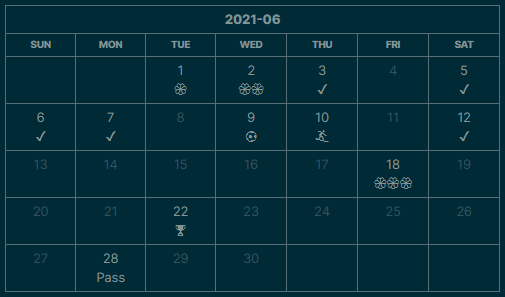
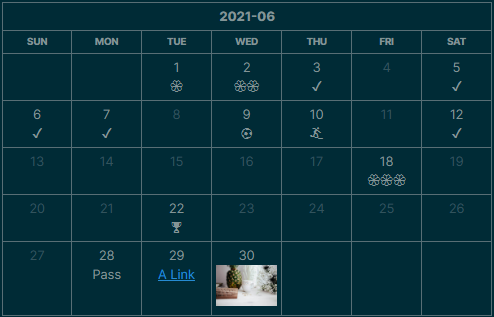
feature: enable html

diff --git a/main.ts b/main.ts
@@ -4,6 +4,7 @@ interface HabitTrackerPluginSettings {
   startOfWeek: string;
   monthFormat: string;
   displayHead: boolean;
+  enableHTML: boolean;
   Sunday: string;
   Monday: string;
   Tuesday: string;
@@ -17,6 +18,7 @@ const DEFAULT_SETTINGS: HabitTrackerPluginSettings = {
   startOfWeek: '0',
   monthFormat: 'YYYY-MM',
   displayHead: true,
+  enableHTML: false,
   Sunday: 'SUN',
   Monday: 'MON',
   Tuesday: 'TUE',
@@ -69,7 +71,6 @@ function renderTable (source: string, plugin: HabitTrackerPlugin) {
 
   const styles = ctx.tableWidth ? `width: ${ctx.tableWidth};` : '';
   const table = createEl('table', { cls: 'habitt', attr: { style: styles }})
-  console.log('table', table)
   table.appendChild(renderHead(ctx))
   table.appendChild(renderBody(ctx))
   return table
@@ -141,7 +142,6 @@ function renderHead (ctx: HabitTrackerContext): HTMLElement {
   for (let i = 0; i < 7; i++) {
     tr.createEl('th', { cls: `habitt-th habitt-th-${i}`, text: WEEK[(i + ctx.startOfWeek) % 7] });
   }
-  console.log('thead', thead)
   return thead;
 }
 
@@ -172,6 +172,7 @@ function renderBody (ctx: HabitTrackerContext): HTMLElement {
   }
   
   const tbody = createEl('tbody');
+  const { enableHTML } = ctx.settings
   for (let i = 0; i < weeks.length; i++) {
     const tr = tbody.createEl('tr');
     for (let j = 0; j < weeks[i].length; j++) {
@@ -182,11 +183,16 @@ function renderBody (ctx: HabitTrackerContext): HTMLElement {
       div.createDiv({ cls: 'habitt-date', text: `${d || ''}` });
       const dots = div.createDiv({ cls: 'habitt-dots' });
       if (hasOwn) {
-        dots.createDiv({ text: ctx.marks.get(d) || '✔' });
+        const input = ctx.marks.get(d) || '✔'
+        // treat as HTML
+        if (enableHTML) {
+          dots.innerHTML = `<div>${input}</div>`
+        } else {
+          dots.createDiv({ text: input });
+        }
       }
     }
   }
-  console.log('body', tbody)
   return tbody;
 }
 
@@ -233,6 +239,18 @@ class HabitTrackerSettingTab extends PluginSettingTab {
           .setValue(this.plugin.settings.displayHead)
           .onChange(async (value) => {
             this.plugin.settings.displayHead = value;
+            await this.plugin.saveSettings();
+          })
+      );
+
+    new Setting(containerEl)
+      .setName('Enable HTML')
+      .setDesc('Treat your input text as HTML. Be careful, it may cause DOM injection attacks')
+      .addToggle(
+        dropdown => dropdown
+          .setValue(this.plugin.settings.enableHTML)
+          .onChange(async (value) => {
+            this.plugin.settings.enableHTML = value;
             await this.plugin.saveSettings();
           })
       );

diff --git a/README.md b/README.md
@@ -4,6 +4,7 @@ This plguin for [Obsidian](https://obsidian.md/) creates a simple month view for
 
 ![](./screemshot.png)
 
+## How To
 To show the view above, just create a code block and type:
 
 ~~~
@@ -16,6 +17,32 @@ To show the view above, just create a code block and type:
 * `[month:YYYY-MM]`: Which month to display
 * `(date_num, tag)`: The day (`date_num`) you want to punch in, with a `tag` in it. If `tag` is missing, such as `(12)`, a default tag `✔` is given to that day.
 * `[width: css_width]`: Restrict the Month-view table to `css_width`, such as `[width: 50%]`, `[width: 500px]`
+
+### Rich Text
+Some people like to insert rich text (e.g. links or images). Since v1.0.4, Habit Tracker plugin adds a new configuration `Enable HTML` to activate HTML parsing. **For some security reasons, this config is "off" as default.**
+
+To insert Web URL:
+~~~
+```habitt
+(1, <a href="https://www.google.com">Google</a>)
+```
+~~~
+
+To insert other note in the Vault (Using Obsidian url):
+~~~
+```habitt
+(1, <a href="obsidian://open?vault=my-notes&file=xxx">Google</a>)
+```
+~~~
+Learn more about [Obsidian url](https://help.obsidian.md/Advanced+topics/Using+obsidian+URI).
+
+To insert a image (from web):
+~~~
+```habitt
+(1, <img src="https://www.xyz.com/img.jpg" />)
+```
+~~~
+Since now, in Obsidian, we are not able to link the local image using `<img />` tag. See [Does ANY HTML work in Obsidian w/local files? - Resolved help - Obsidian Forum](https://forum.obsidian.md/t/does-any-html-work-in-obsidian-w-local-files/8000).
 
 ## Installation
 
